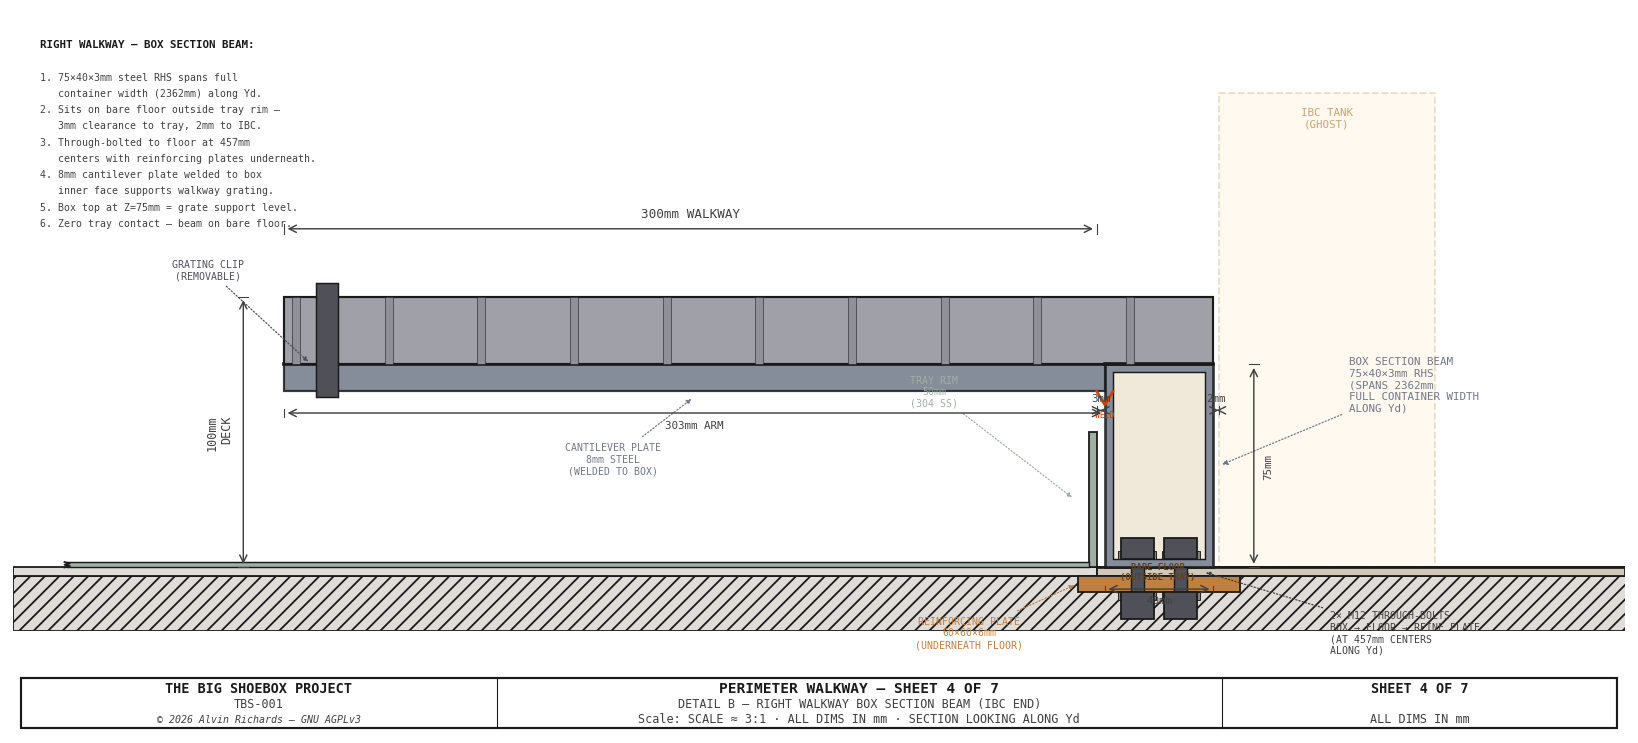
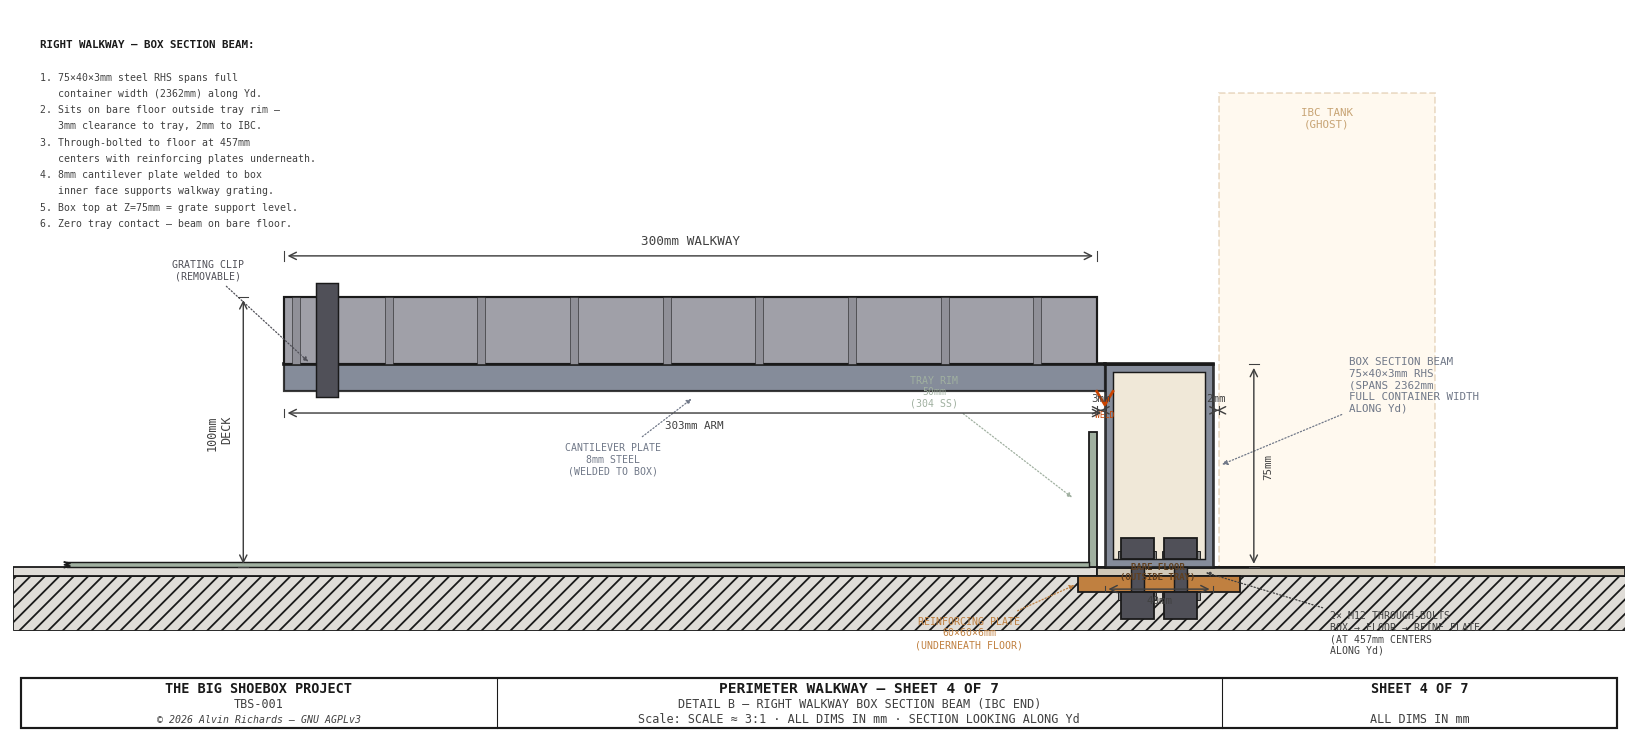
Fix sheet 4 walkway grating extent to match 300mm width
Grating was drawn from walkway left edge to box section right face
(343mm), but the walkway is only 300mm wide over the tray. Grating
now correctly stops at the tray rim edge (WK_RIGHT), matching the
300mm dimension annotation.

Changed region(s): [[0.6538, 0.3715, 0.7473, 0.4953], [0.3736, 0.2786, 0.467, 0.3405]]

diff --git a/generate_walkway_diagram.py b/generate_walkway_diagram.py
@@ -1306,11 +1306,11 @@ def sheet4():
     grate_bot = BRKT_ARM_Z
     grate_top = grate_bot + WALKWAY_GRATE_T
     ax.add_patch(Rectangle((sx(WK_LEFT), sy(grate_bot)),
-                            sx(BOX_R_DX - WK_LEFT), sy(WALKWAY_GRATE_T),
+                            sx(WK_RIGHT - WK_LEFT), sy(WALKWAY_GRATE_T),
                             fc=C_GRATE, ec=C_OUT, lw=1.2, zorder=7))
     bar_spacing = 34.2
     bar_w = 3
-    for xb in np.arange(bar_w, BOX_R_DX - WK_LEFT - bar_w, bar_spacing):
+    for xb in np.arange(bar_w, WK_RIGHT - WK_LEFT - bar_w, bar_spacing):
         ax.add_patch(Rectangle((sx(WK_LEFT + xb), sy(grate_bot)),
                                 sx(bar_w), sy(WALKWAY_GRATE_T),
                                 fc="#909098", ec=C_OUT, lw=0.3, zorder=8))
@@ -1340,7 +1340,7 @@ def sheet4():
             **FONT, zorder=15, alpha=0.7)
 
     # ── Dimension lines ──────────────────────────────────────────────────────
-    draw_dim_h(ax, sx(WK_LEFT), sx(WK_RIGHT), sy(grate_top + 25),
+    draw_dim_h(ax, sx(WK_LEFT), sx(WK_RIGHT), sy(grate_top + 15),
                f"{WALKWAY_W}mm WALKWAY", offset=sy(6), fs=7, font=FONT)
     draw_dim_v(ax, sx(WK_LEFT - 15), sy(0), sy(grate_top),
                f"{WALKWAY_H}mm\nDECK", offset=sx(6), fs=6.5, right=False, font=FONT)
